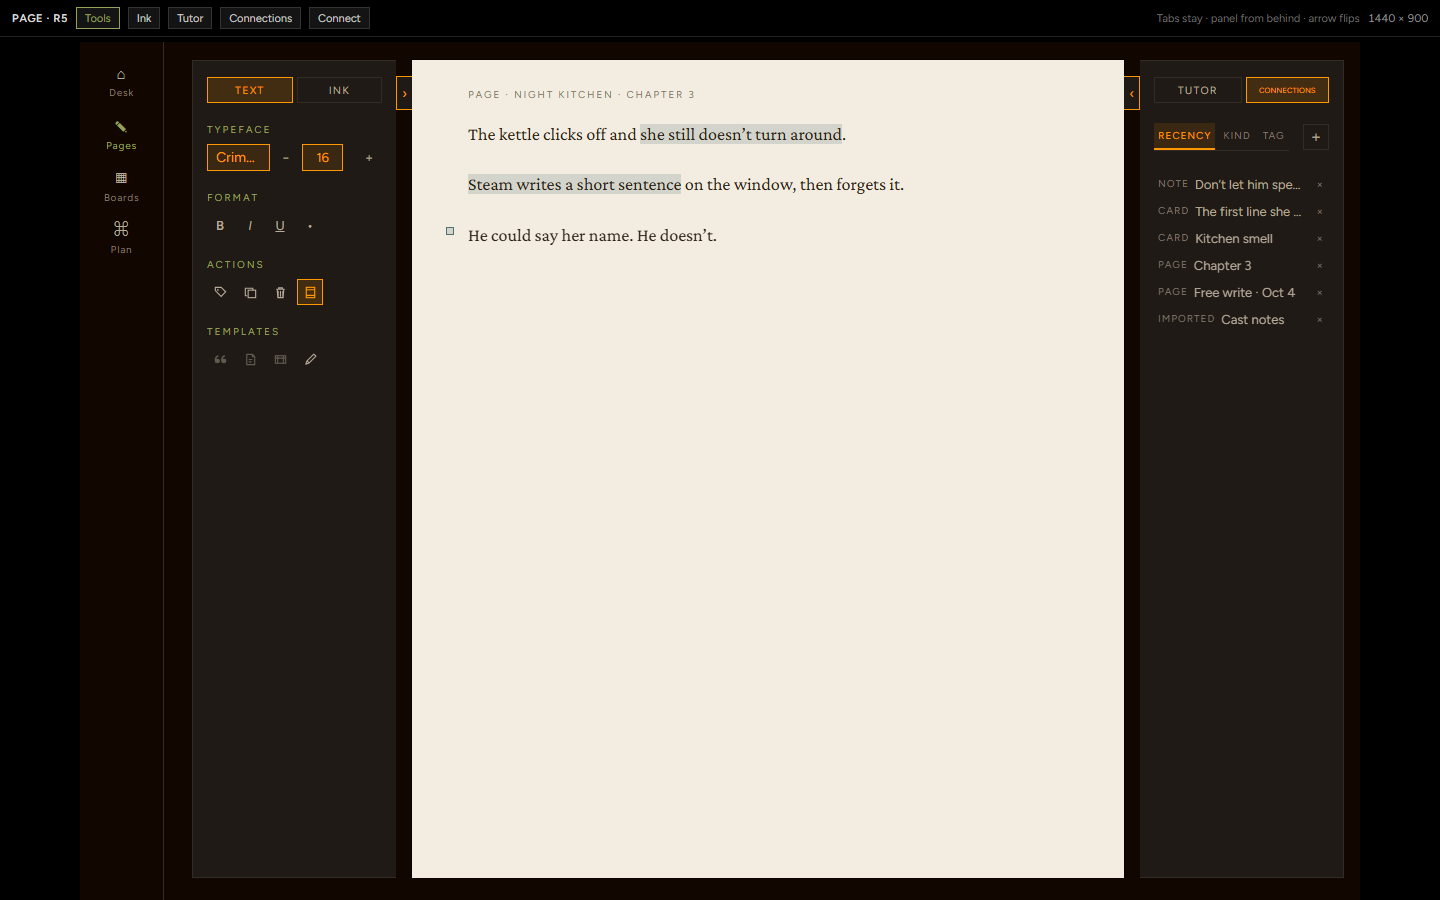
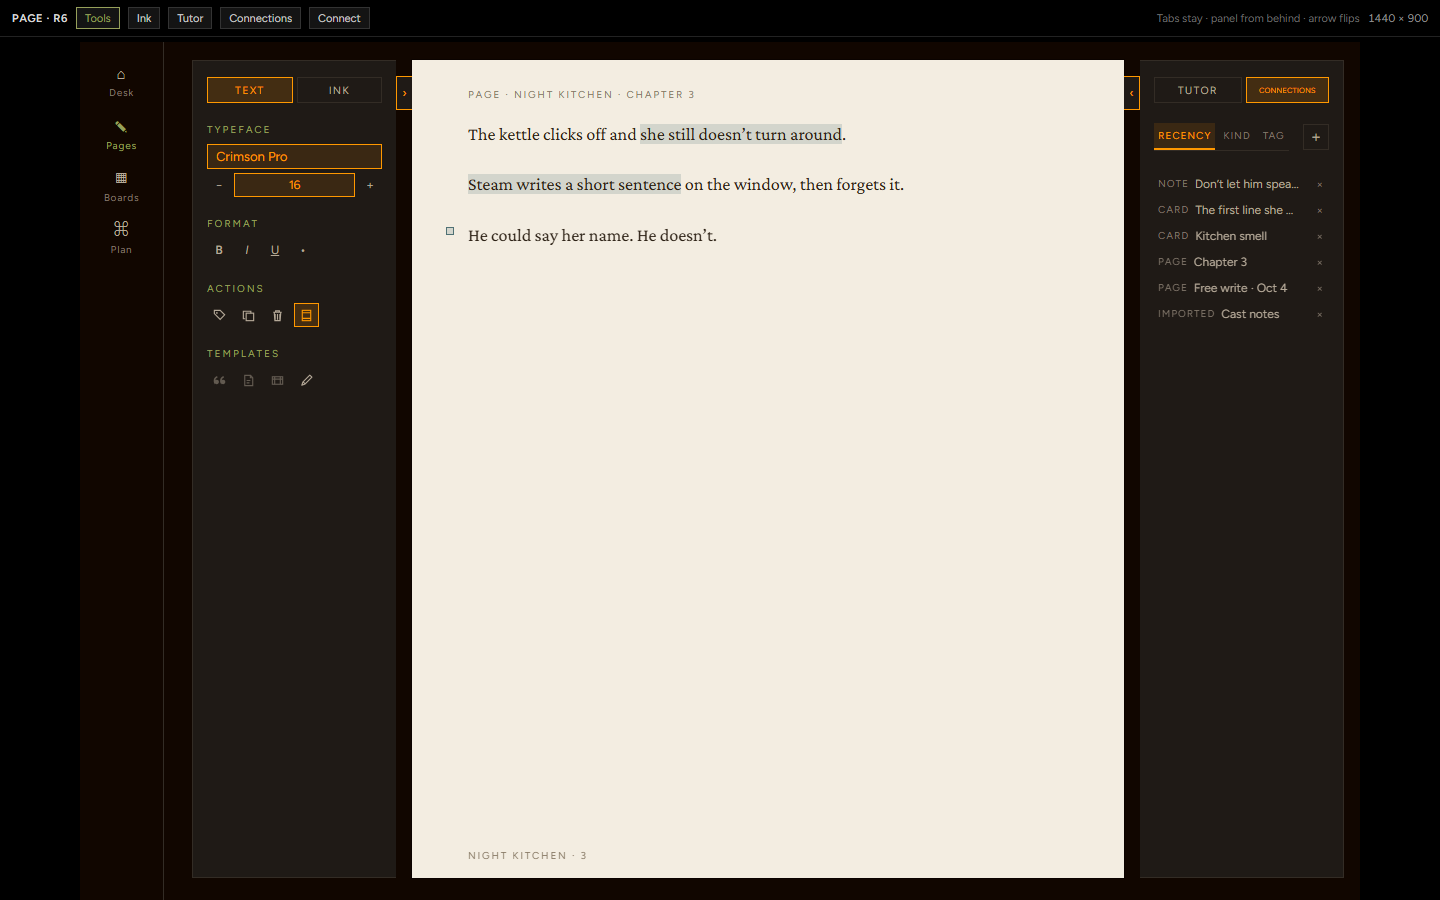
Round 6 page mockup: clip-slide drawers, untruncated typeface, Header/Footer hides chrome.

Changed region(s): [[0.8125, 0.1867, 0.9062, 0.3733], [0.1562, 0.28, 0.25, 0.4356], [0.1562, 0.1556, 0.2812, 0.2489]]

diff --git a/docs/mockups/rail/index.html b/docs/mockups/rail/index.html
@@ -3,12 +3,11 @@
 <head>
 <meta charset="utf-8">
 <meta name="viewport" content="width=device-width, initial-scale=1">
-<title>Wrizo · Page mockup · round 5</title>
+<title>Wrizo · Page mockup · round 6</title>
 <!--
-  docs/mockups/rail — page. Left strip + right pop-out.
-  Tabs stay at the paper edge; only the arrow flips. Panel slides from behind.
-  Icons + tooltips for Actions / Templates. Brass on every selected control.
-  CONNECTIONS tab sized to fit. Phone: overlay inward, paper fully on screen.
+  docs/mockups/rail — FROZEN round 6. Tabs stay; menu clips at the tab and
+  translates its full width (no fade). Typeface name on its own row.
+  Header/Footer hides kicker + foot. Menu body type one step smaller.
   Branch: cursor/rail-mockup.
 -->
 <style>
@@ -77,6 +76,13 @@
     overflow: auto; padding: 28px 48px 40px 56px;
   }
   .paper .kicker { font-size: 10px; letter-spacing: .18em; text-transform: uppercase; color: var(--ink-on-paper-low); margin-bottom: 18px; }
+  .paper .page-foot {
+    position: absolute; bottom: 16px; left: 56px; right: 48px;
+    font-size: 10px; letter-spacing: .18em; text-transform: uppercase;
+    color: var(--ink-on-paper-low);
+  }
+  .paper[data-hf='false'] .kicker,
+  .paper[data-hf='false'] .page-foot { display: none; }
   .paper p { font-family: var(--font-prose); font-size: 18px; line-height: 1.7; margin-bottom: 1.1em; }
   .lnk { background: var(--sea-wash); cursor: pointer; }
   .lnk:hover, .lnk[data-on='true'] { background: var(--sea-wash-deep); }
@@ -91,25 +97,30 @@
   body[data-tool='move'] canvas.ink { cursor: grab; }
   body[data-tool='eraser'] canvas.ink { cursor: cell; }
 
-  /* tabs stay at the paper edge; panel slides out from behind the tab */
+  /* tabs stay; clip at the tab; panel translates its full width (no fade) */
   .sliver {
     position: absolute; top: 18px; bottom: 22px; left: 28px;
     width: var(--pop-w); z-index: 6; pointer-events: none;
   }
-  .sliver .grip, .sliver .panel { pointer-events: auto; }
-  .sliver .panel {
+  .sliver .grip { pointer-events: auto; }
+  .sliver .clip {
     position: absolute; top: 0; bottom: 0; left: 0; right: 16px;
+    overflow: hidden; pointer-events: none;
+  }
+  .sliver[data-open='true'] .clip { pointer-events: auto; }
+  .sliver .panel {
+    position: absolute; inset: 0;
     overflow-y: auto; overflow-x: hidden;
     background: var(--desk-ground); border: 1px solid var(--ink-border); border-right: none;
-    opacity: 0; pointer-events: none; transform: translateX(6px);
-    transition: opacity var(--fade-dur) ease, transform var(--fade-dur) ease;
+    transform: translateX(100%);
+    transition: transform var(--fade-dur) ease;
   }
-  .sliver[data-open='true'] .panel { opacity: 1; pointer-events: auto; transform: translateX(0); }
+  .sliver[data-open='true'] .panel { transform: translateX(0); }
   .sliver .grip {
     position: absolute; top: 16px; right: 0; left: auto; width: 16px; height: 34px; z-index: 3;
     display: flex; align-items: center; justify-content: center;
     background: var(--desk-ground); border: 1px solid var(--ink-border); border-right: none;
-    color: var(--text-mid); font-size: 13px;
+    color: var(--text-mid); font-size: 12px;
     transition: color var(--fade-dur) ease, border-color var(--fade-dur) ease;
   }
   .sliver[data-open='true'] .grip { color: var(--brass); border-color: var(--brass); }
@@ -118,20 +129,25 @@
     position: absolute; top: 18px; bottom: 22px; right: 16px;
     width: var(--pop-w); z-index: 6; pointer-events: none;
   }
-  .popout .grip, .popout .panel { pointer-events: auto; }
-  .popout .panel {
+  .popout .grip { pointer-events: auto; }
+  .popout .clip {
     position: absolute; top: 0; bottom: 0; left: 16px; right: 0;
+    overflow: hidden; pointer-events: none;
+  }
+  .popout[data-open='true'] .clip { pointer-events: auto; }
+  .popout .panel {
+    position: absolute; inset: 0;
     overflow-y: auto; overflow-x: hidden;
     background: var(--desk-ground); border: 1px solid var(--ink-border); border-left: none;
-    opacity: 0; pointer-events: none; transform: translateX(-6px);
-    transition: opacity var(--fade-dur) ease, transform var(--fade-dur) ease;
+    transform: translateX(-100%);
+    transition: transform var(--fade-dur) ease;
   }
-  .popout[data-open='true'] .panel { opacity: 1; pointer-events: auto; transform: translateX(0); }
+  .popout[data-open='true'] .panel { transform: translateX(0); }
   .popout .grip {
     position: absolute; top: 16px; left: 0; width: 16px; height: 34px; z-index: 3;
     display: flex; align-items: center; justify-content: center;
     background: var(--desk-ground); border: 1px solid var(--ink-border); border-left: none;
-    color: var(--text-mid); font-size: 13px;
+    color: var(--text-mid); font-size: 12px;
     transition: color var(--fade-dur) ease, border-color var(--fade-dur) ease;
   }
   .popout[data-open='true'] .grip { left: 0; color: var(--brass); border-color: var(--brass); }
@@ -153,8 +169,8 @@
     background: color-mix(in srgb, var(--brass) 16%, transparent);
   }
   .mode-tbtn {
-    min-width: 26px; height: 26px; padding: 0 4px; border: 1px solid transparent;
-    color: var(--text-mid); font-size: 13px; display: inline-flex; align-items: center; justify-content: center;
+    min-width: 24px; height: 24px; padding: 0 4px; border: 1px solid transparent;
+    color: var(--text-mid); font-size: 12px; display: inline-flex; align-items: center; justify-content: center;
   }
   .mode-tbtn:hover { border-color: var(--ink-border); color: var(--text-hi); }
   .mode-tbtn[data-on='true'] {
@@ -164,40 +180,41 @@
   .mode-tbtn.is-dead { opacity: .45; cursor: default; pointer-events: none; }
   .mode-tbtn svg { display: block; }
   .row { display: flex; align-items: center; flex-wrap: wrap; gap: 4px; }
-  .type-row { display: grid; grid-template-columns: minmax(0, 1fr) 26px 3.2em 26px; gap: 3px; width: 100%; }
+  .type-stack { display: flex; flex-direction: column; gap: 4px; width: 100%; }
+  .type-row { display: grid; grid-template-columns: 24px minmax(0, 1fr) 24px; gap: 3px; width: 100%; }
   .size-row { display: grid; grid-template-columns: 24px minmax(0, 1fr) 24px; gap: 3px; width: 100%; }
   .wz-type-face, .size-val {
-    min-width: 0; text-align: center; padding: 4px 8px; color: var(--brass);
-    border: 1px solid var(--brass); font-size: 14px; white-space: nowrap; overflow: hidden; text-overflow: ellipsis;
+    width: 100%; text-align: center; padding: 4px 8px; color: var(--brass);
+    border: 1px solid var(--brass); font-size: 13px; white-space: nowrap;
     background: color-mix(in srgb, var(--brass) 12%, transparent);
   }
   .wz-type-face { text-align: left; }
-  .size-val { font-size: 11px; letter-spacing: .04em; padding: 4px 9px; }
+  .size-val { font-size: 10px; letter-spacing: .04em; padding: 4px 9px; }
   .wz-type-num {
-    width: 3.2em; text-align: center; padding: 3px 2px; color: var(--brass);
-    border: 1px solid var(--brass); font-size: 13px;
+    width: auto; min-width: 0; text-align: center; padding: 3px 2px; color: var(--brass);
+    border: 1px solid var(--brass); font-size: 12px;
     background: color-mix(in srgb, var(--brass) 12%, transparent);
   }
   .wz-type-list { list-style: none; border: 1px solid var(--ink-border); }
-  .wz-type-row { padding: 4px 8px; font-size: 14px; color: var(--text-hi); cursor: pointer; }
+  .wz-type-row { padding: 4px 8px; font-size: 13px; color: var(--text-hi); cursor: pointer; }
   .wz-type-row[data-current='true'] {
     color: var(--brass); background: color-mix(in srgb, var(--brass) 12%, transparent);
   }
   .item-btn {
     display: block; width: 100%; text-align: left; border: 1px solid var(--ink-border);
-    color: var(--text-mid); font-size: 13px; padding: 8px 10px;
+    color: var(--text-mid); font-size: 12px; padding: 7px 9px;
   }
   .item-btn:hover { color: var(--text-hi); }
   .item-btn.danger:hover { color: var(--brick); }
-  .chip { border: 1px solid var(--ink-border); color: var(--text-mid); font-size: 11px; padding: 3px 7px; }
+  .chip { border: 1px solid var(--ink-border); color: var(--text-mid); font-size: 10px; padding: 3px 7px; }
   .chip[data-on='true'] {
     color: var(--brass); border-color: var(--brass);
     background: color-mix(in srgb, var(--brass) 12%, transparent);
   }
   .tag-pop { display: flex; flex-wrap: wrap; gap: 4px; }
-  .confirm .q { font-size: 12px; color: var(--text-hi); margin-bottom: 6px; }
-  .confirm .go { border: 1px solid var(--brick); color: var(--brick); padding: 4px 8px; font-size: 12px; }
-  .confirm .no { border: 1px solid var(--ink-border); color: var(--text-mid); padding: 4px 8px; font-size: 12px; }
+  .confirm .q { font-size: 11px; color: var(--text-hi); margin-bottom: 6px; }
+  .confirm .go { border: 1px solid var(--brick); color: var(--brick); padding: 4px 8px; font-size: 11px; }
+  .confirm .no { border: 1px solid var(--ink-border); color: var(--text-mid); padding: 4px 8px; font-size: 11px; }
   .mode-swatch { width: 22px; height: 22px; border: 1px solid var(--ink-border-strong); }
   .mode-swatch.active { outline: 2px solid var(--brass); outline-offset: 1px; }
 
@@ -219,18 +236,18 @@
     color: var(--brass); border-bottom-color: var(--brass);
     background: color-mix(in srgb, var(--brass) 12%, transparent);
   }
-  .math, .empty, .focus-bar { font-size: 11px; color: var(--text-low); line-height: 1.4; }
+  .math, .empty, .focus-bar { font-size: 10px; color: var(--text-low); line-height: 1.4; }
   .focus-bar button { color: var(--accent-rest); }
   .grp { font-size: 10px; letter-spacing: 2px; text-transform: uppercase; color: var(--text-mid); margin: 10px 0 4px; }
   .lrow { display: flex; align-items: center; gap: 4px; }
-  .open { flex: 1; min-width: 0; text-align: left; display: flex; gap: 6px; padding: 6px 4px; color: var(--text-mid); font-size: 13px; }
+  .open { flex: 1; min-width: 0; text-align: left; display: flex; gap: 6px; padding: 6px 4px; color: var(--text-mid); font-size: 12px; }
   .open:hover { color: var(--text-hi); background: var(--ink-800); }
   .kind { font-size: 10px; letter-spacing: 1px; text-transform: uppercase; color: var(--text-low); }
   .lab { flex: 1; min-width: 0; overflow: hidden; text-overflow: ellipsis; white-space: nowrap; }
   .unlink { color: var(--text-low); font-size: 11px; padding: 2px 6px; }
   .ask { display: flex; gap: 6px; }
-  .ask input { flex: 1; min-width: 0; background: var(--ink-800); border: 1px solid var(--ink-border); color: var(--text-hi); font-size: 13px; padding: 8px; }
-  .ask button { border: 1px solid var(--ink-border); color: var(--text-mid); padding: 0 10px; font-size: 12px; }
+  .ask input { flex: 1; min-width: 0; background: var(--ink-800); border: 1px solid var(--ink-border); color: var(--text-hi); font-size: 12px; padding: 7px; }
+  .ask button { border: 1px solid var(--ink-border); color: var(--text-mid); padding: 0 10px; font-size: 11px; }
   .thumbs { display: grid; grid-template-columns: repeat(2, minmax(0, 1fr)); gap: 8px; }
   .thumb { text-align: left; color: var(--text-mid); }
   .thumb .pic {
@@ -241,19 +258,19 @@
   .thumb .pic.page { background: var(--paper); border-top: 2px solid var(--accent-rest); }
   .thumb .pic.doc { background: var(--ink-800); color: var(--text-mid); font-family: var(--font-ui); }
   .thumb .cap { font-size: 10px; margin-top: 4px; }
-  .switch-board { width: 100%; border: 1px solid var(--ink-border); color: var(--text-mid); padding: 6px 8px; text-align: left; font-size: 13px; }
-  .board-list button { display: block; width: 100%; text-align: left; padding: 6px 8px; color: var(--text-mid); font-size: 13px; }
+  .switch-board { width: 100%; border: 1px solid var(--ink-border); color: var(--text-mid); padding: 6px 8px; text-align: left; font-size: 12px; }
+  .board-list button { display: block; width: 100%; text-align: left; padding: 6px 8px; color: var(--text-mid); font-size: 12px; }
   .board-list button[data-current='true'] { color: var(--brass); }
 
   .toast {
     position: fixed; left: 50%; bottom: 18px; transform: translateX(-50%); z-index: 50;
     background: var(--ink-900); border: 1px solid var(--ink-border);
-    color: var(--text-hi); font-size: 13px; padding: 8px 14px; opacity: 0; pointer-events: none;
+    color: var(--text-hi); font-size: 12px; padding: 8px 14px; opacity: 0; pointer-events: none;
   }
   .toast[data-on='true'] { opacity: 1; }
 
   @media (prefers-reduced-motion: reduce) {
-    .sliver .panel, .popout .panel, .sliver .grip, .popout .grip { transition: none; }
+    .sliver .panel, .popout .panel { transition: none; }
   }
 
   @media (max-width: 720px) {
@@ -262,7 +279,7 @@
     .desk { display: none; }
     .paper { inset: 8px; left: 8px; right: 8px; padding: 16px 14px 24px 28px; }
     .paper p { overflow-wrap: anywhere; font-size: 16px; }
-    .sliver, .popout { top: 8px; bottom: 8px; width: 16px; }
+    .sliver, .popout { top: 8px; bottom: 8px; width: min(var(--pop-w), calc(100% - 24px)); }
     .sliver { left: 8px; }
     .popout { right: 8px; }
     .sliver::before, .popout::before {
@@ -272,14 +289,14 @@
     .sliver::before { left: 0; border-right: 1px solid var(--ink-border); }
     .popout::before { right: 0; border-left: 1px solid var(--ink-border); }
     .sliver .grip { left: 0; right: auto; border-right: none; border-left: 1px solid var(--ink-border); }
-    .sliver .panel { left: 16px; right: 0; border-right: 1px solid var(--ink-border); border-left: none; transform: translateX(-6px); }
+    .sliver .clip { left: 16px; right: 0; }
+    .sliver .panel { border-right: 1px solid var(--ink-border); border-left: none; transform: translateX(-100%); }
     .sliver[data-open='true'] .panel { transform: translateX(0); }
     .popout .grip { left: auto; right: 0; }
-    .popout .panel { left: 0; right: 16px; border-left: 1px solid var(--ink-border); border-right: none; transform: translateX(6px); }
+    .popout .clip { left: 0; right: 16px; }
+    .popout .panel { border-left: 1px solid var(--ink-border); border-right: none; transform: translateX(100%); }
     .popout[data-open='true'] .panel { transform: translateX(0); }
-    .sliver[data-open='true'], .popout[data-open='true'] {
-      width: min(var(--pop-w), calc(100% - 24px)); z-index: 8;
-    }
+    .sliver[data-open='true'], .popout[data-open='true'] { z-index: 8; }
     .tab { letter-spacing: .4px; font-size: 9px; }
     .tab[data-tab="connections"] { font-size: 7px; letter-spacing: .02em; }
   }
@@ -287,7 +304,7 @@
 </head>
 <body data-hand="text" data-tool="pen">
 <header class="rig">
-  <b>PAGE · R5</b>
+  <b>PAGE · R6</b>
   <button class="rev" data-view="tools" type="button">Tools</button>
   <button class="rev" data-view="ink" type="button">Ink</button>
   <button class="rev" data-view="tutor" type="button">Tutor</button>
@@ -307,6 +324,7 @@
     </nav>
     <div class="page-col">
       <aside class="sliver" id="sliver" data-open="true" data-hand="text">
+        <div class="clip">
         <div class="panel">
           <div class="body">
             <div class="tabs" role="radiogroup">
@@ -316,11 +334,13 @@
             <div id="textTools">
               <div class="sec">
                 <div class="h">Typeface</div>
-                <div class="type-row">
+                <div class="type-stack">
                   <button class="wz-type-face" id="faceBtn" type="button">Crimson Pro</button>
-                  <button class="mode-tbtn" id="sizeDown" type="button">−</button>
-                  <input class="wz-type-num" id="sizeNum" value="16" readonly>
-                  <button class="mode-tbtn" id="sizeUp" type="button">+</button>
+                  <div class="type-row">
+                    <button class="mode-tbtn" id="sizeDown" type="button">−</button>
+                    <input class="wz-type-num" id="sizeNum" value="16" readonly>
+                    <button class="mode-tbtn" id="sizeUp" type="button">+</button>
+                  </div>
                 </div>
                 <ul class="wz-type-list" id="faceList" hidden>
                   <li class="wz-type-row" data-current="true" data-face="Crimson Pro" data-stack="'Crimson Pro', Georgia, serif">Crimson Pro</li>
@@ -426,10 +446,11 @@
             </div>
           </div>
         </div>
+        </div>
         <button class="grip" id="sliverGrip" type="button" aria-expanded="true">›</button>
       </aside>
 
-      <article class="paper" id="paper">
+      <article class="paper" id="paper" data-hf="true">
         <canvas class="ink" id="ink"></canvas>
         <div class="kicker">Page · Night Kitchen · Chapter 3</div>
         <p>The kettle clicks off and <span class="lnk" data-anchor="a1">she still doesn’t turn around</span>.</p>
@@ -438,10 +459,12 @@
           <button class="gutter" id="gutter" type="button" title="Spot note"></button>
           <p>He could say her name. He doesn’t.</p>
         </div>
+        <div class="page-foot">Night Kitchen · 3</div>
       </article>
 
       <aside class="popout" id="popout" data-open="true">
         <button class="grip" id="popGrip" type="button" aria-expanded="true">‹</button>
+        <div class="clip">
         <div class="panel">
           <div class="body">
             <div class="tabs" role="radiogroup">
@@ -494,6 +517,7 @@
               </div>
             </div>
           </div>
+        </div>
         </div>
       </aside>
     </div>
@@ -687,7 +711,9 @@
   $('tagsBtn').addEventListener('click', () => { $('tagPop').hidden = !$('tagPop').hidden; });
   $('copyBtn').addEventListener('click', () => toast('Copied (fake)'));
   $('hfBtn').addEventListener('click', () => {
-    $('hfBtn').dataset.on = $('hfBtn').dataset.on === 'true' ? 'false' : 'true';
+    const on = $('hfBtn').dataset.on !== 'true';
+    $('hfBtn').dataset.on = on ? 'true' : 'false';
+    $('paper').dataset.hf = on ? 'true' : 'false';
   });
   $('deleteBtn').addEventListener('click', () => { $('deleteAsk').hidden = false; });
   $('deleteNo').addEventListener('click', () => { $('deleteAsk').hidden = true; });
